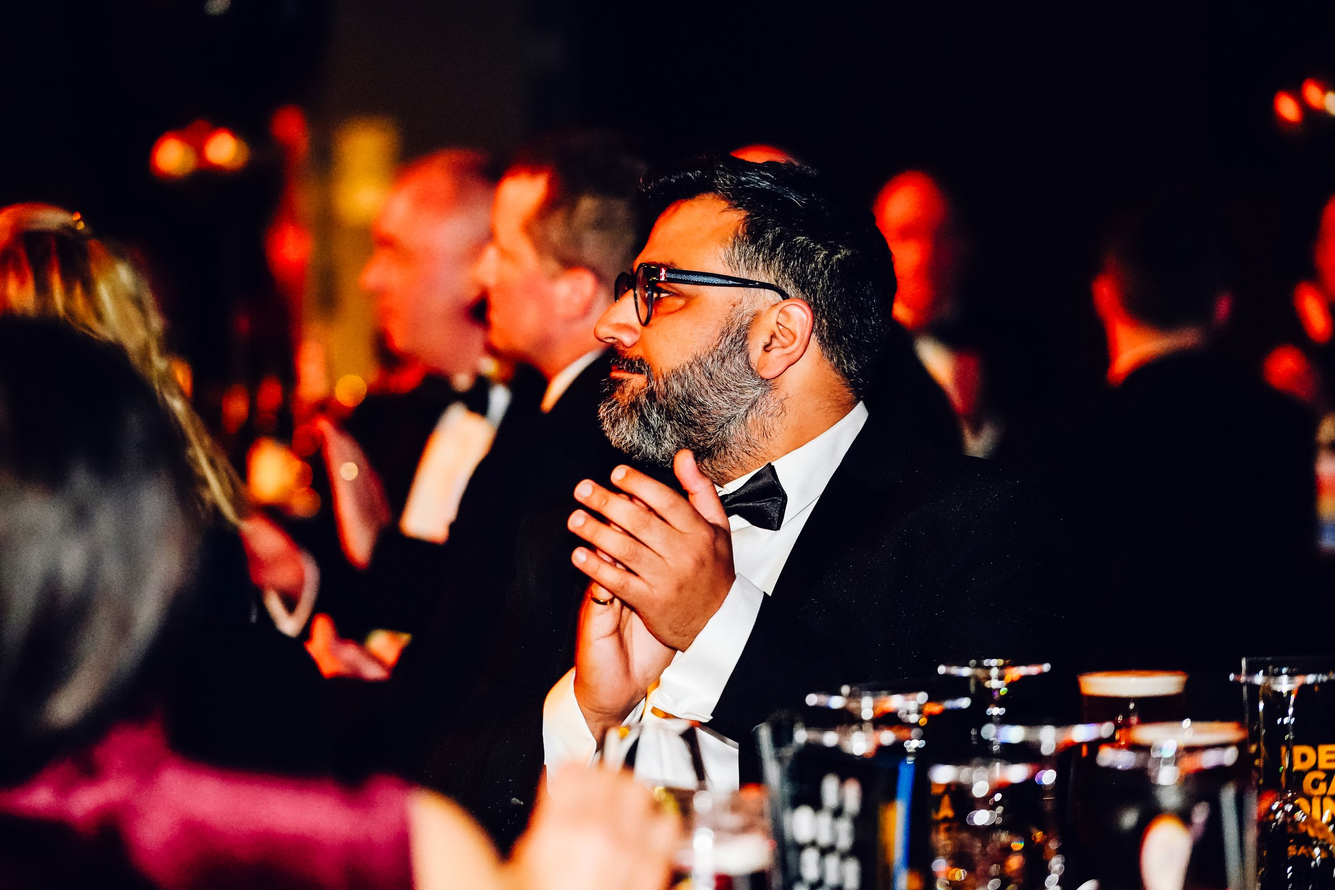
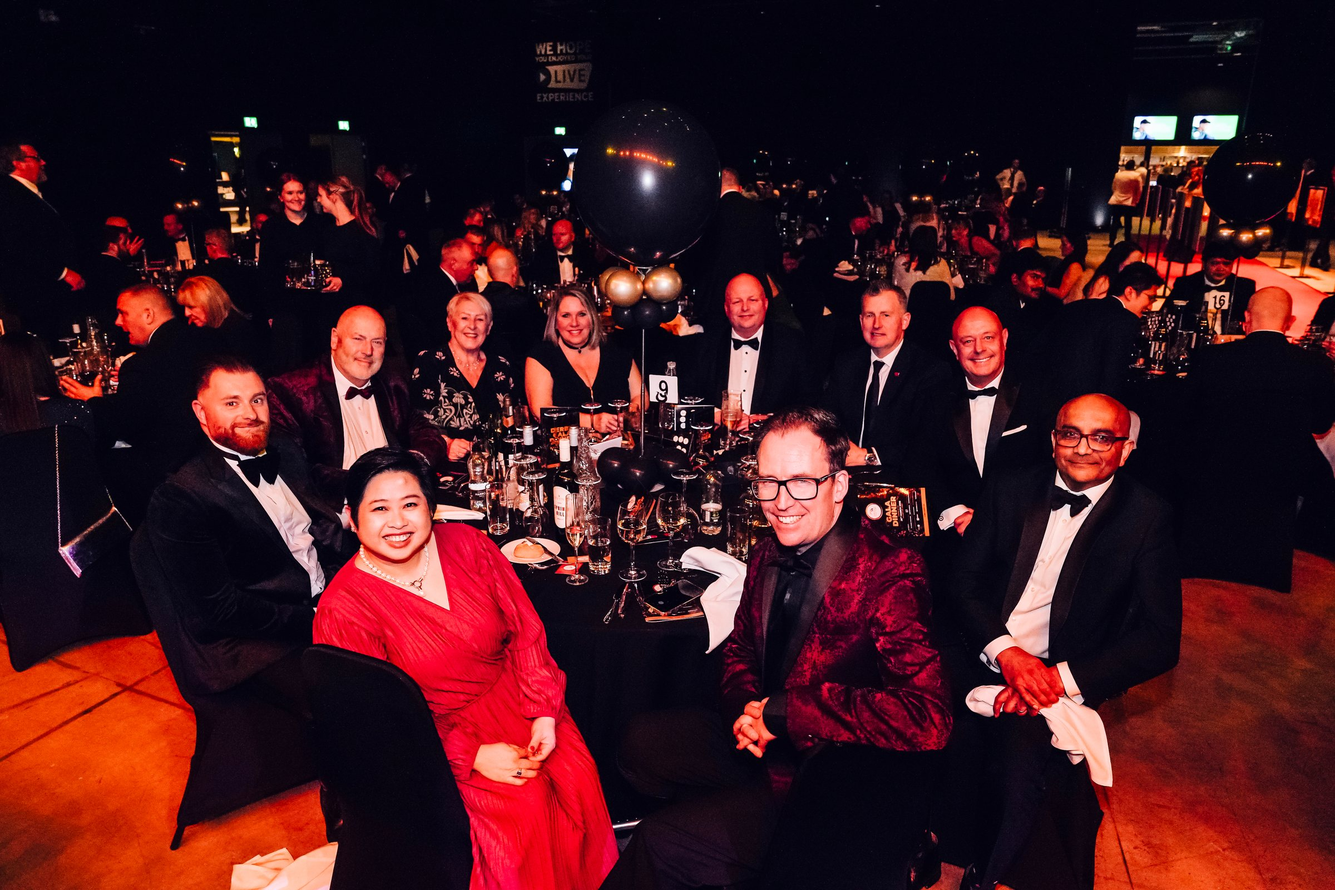
Update the Event details top section and swap the table photos
Event details (from the "dgd - matt" Figma):
- Date and Venue: date in gold, address in white body text, map on the
  right.
- Gold lines between the sections.
- Timings in two columns, VIP and Evening Guests, each with its times
  (written with colons throughout, as agreed with Matt).
- Itinerary removed; Menu stays "Coming soon...".

Table photos, as the green note in the Figma asks ("across all"):
the Evening Table and VIP Table photos are now the two from the booking
pop-up, on the home page cards and the Book a table page too. The new
photos replace table-evening.jpg / table-vip.jpg, so every page uses
the same two files; the home page crops are set around the guests.

Claude-Session: https://claude.ai/code/session_017j7DnW8iTq8jSC5ZoANdtX

diff --git a/PLACEHOLDERS.md b/PLACEHOLDERS.md
@@ -12,6 +12,9 @@ the Figma, and open questions. Update it as items are resolved.
 - [ ] "PLAY / This will be for a video once created." (below the footer in the Figma). **Not built yet**, waiting for the video.
 - [ ] The "See how the Derby Gala Dinner 2026 unfolded." strip only has 3 photos in the Figma. They loop. (It uses its own 3 photos in `src/components/GalleryStrip.astro`, separate from the gallery folder.)
 
+### Table photos
+- [x] The Evening Table and VIP Table photos are the two from the green note in the "dgd - matt" Figma, everywhere they appear: the home page cards, the Book a table page and the booking pop-up. On the tall home page cards the photos are cropped around the guests.
+
 ### Book a table
 - [x] White "Tables" and "Sponsors" headings added above the two gold intros, from the "dgd - matt" Figma. The Figma's gap under each heading differs slightly (20px and 6px); the build uses the same gap for both.
 - [ ] Price formatting differs between the cards: "£2,500 +VAT" and "£3,500 + vat".
@@ -20,8 +23,9 @@ the Figma, and open questions. Update it as items are resolved.
 - [ ] Availability ("1 remaining", "3 remaining", "Available") needs updating as packages sell. It's in the `packages` list at the top of `src/pages/book-a-table.astro`.
 
 ### Event details
-- [x] "Intinery" heading corrected to "Itinerary".
-- [ ] Itinerary and Menu both say "Coming soon...".
+- [x] Top section updated to the "dgd - matt" Figma: Date and Venue (address in white), gold lines between sections, Timings for VIP and Evening Guests, and Menu. Itinerary has been removed, as in the Figma.
+- [x] Times are written with colons throughout (17:30, 18:00), as agreed with Matt; the Figma mixes "17.30" and "19:00".
+- [ ] Menu still says "Coming soon...".
 - [ ] The map in the Figma is a screenshot. The build uses a live Google map that only loads after cookies are accepted; until then the screenshot is shown dimmed behind the consent message.
 
 ### Your hosts
